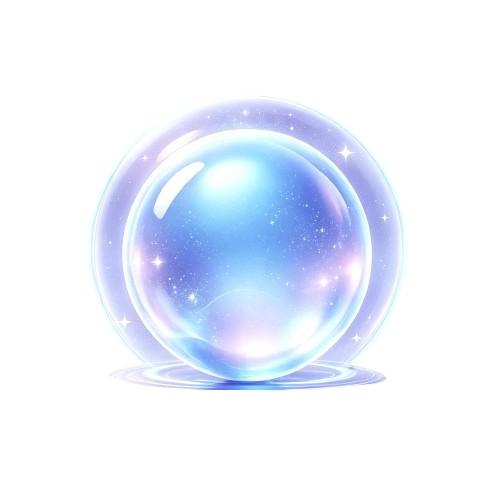
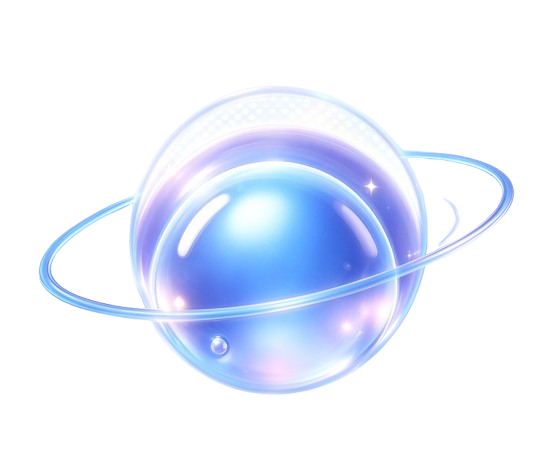
星球修改

Changed region(s): [[0.06, 0.1842, 0.96, 0.8904]]

diff --git a/src/app/globals.css b/src/app/globals.css
@@ -560,60 +560,160 @@ body {
   animation-duration: 8s;
 }
 
-/* 能量球光环：前后两段半环制造“环绕穿过”的立体感，外环更淡、倾角错开，星点点缀 */
-/*.orb-halo {
-  --ring: #a89cff;
-}*/
+/* ===== 心境星球：分层动效 ===== */
+/* 球 = 静态 PNG（缓慢自转）+ 高光漂移层；环 = 代码画的 3D 圆环，绕固定斜轴匀速进动，
+   像旋转的硬币那样翻滚，环前后穿插由 preserve-3d 深度排序天然实现。参考视频周期 6.5~8.5s、三颗错相 */
 
-/*.orb-ring {
+.orb-halo {
+  --ring: #a89cff;
+}
+
+.orb-halo.orb3d {
+  isolation: auto;
+  transform: none;
+  transform-style: preserve-3d;
+  perspective: 480px;
+}
+
+/* 环面进动层 */
+.orb3d-precess {
+  position: absolute;
+  inset: 0;
+  transform-style: preserve-3d;
+  pointer-events: none;
+  animation: orb-tumble var(--tumble-dur, 7s) linear infinite;
+  animation-delay: var(--tumble-delay, 0s);
+}
+
+/* 每颗星球转轴与节奏错开 */
+.orb-liujin .orb3d-precess {
+  --tumble-axis-x: 1;
+  --tumble-axis-y: 0.85;
+  --tumble-axis-z: 0.4;
+  --tumble-dur: 6.8s;
+  --tumble-delay: -2.1s;
+}
+.orb-feiyan .orb3d-precess {
+  --tumble-axis-x: 0.9;
+  --tumble-axis-y: 1;
+  --tumble-axis-z: -0.45;
+  --tumble-dur: 7.6s;
+  --tumble-delay: -4.7s;
+}
+.orb-jingchuan .orb3d-precess {
+  --tumble-axis-x: 1;
+  --tumble-axis-y: 0.7;
+  --tumble-axis-z: 0.3;
+  --tumble-dur: 8.4s;
+  --tumble-delay: -6.2s;
+}
+
+@keyframes orb-tumble {
+  from {
+    transform: rotate3d(
+      var(--tumble-axis-x, 1),
+      var(--tumble-axis-y, 1),
+      var(--tumble-axis-z, 0.4),
+      0deg
+    );
+  }
+  to {
+    transform: rotate3d(
+      var(--tumble-axis-x, 1),
+      var(--tumble-axis-y, 1),
+      var(--tumble-axis-z, 0.4),
+      360deg
+    );
+  }
+}
+
+.orb3d-ring {
   position: absolute;
   left: 50%;
   top: 50%;
-  width: 130%;
-  height: 40%;
   translate: -50% -50%;
-!*  rotate: -18deg;*!
-  border: 2px solid color-mix(in srgb, var(--ring) 68%, transparent);
   border-radius: 50%;
+  border: 2px solid color-mix(in srgb, var(--ring) 72%, transparent);
   box-shadow:
-    0 0 12px color-mix(in srgb, var(--ring) 45%, transparent),
-    inset 0 0 12px color-mix(in srgb, var(--ring) 28%, transparent);
-!*  animation: orb-ring-pulse 4.5s ease-in-out infinite;*!
+    0 0 10px color-mix(in srgb, var(--ring) 42%, transparent),
+    inset 0 0 10px color-mix(in srgb, var(--ring) 28%, transparent);
   pointer-events: none;
-}*/
+}
 
-/* 上半段，藏在球后 */
-/*.orb-ring-back {
-  z-index: 0;
-  clip-path: inset(0 0 50% 0);
-}*/
+/* 内环：贴近球体，亮 */
+.orb3d-ring-a {
+  width: 152%;
+  height: 152%;
+}
 
-/* 下半段，压在球前 */
-/*.orb-ring-front {
-  z-index: 2;
-  clip-path: inset(50% 0 0 0);
-}*/
-
-/* 更淡的外环，整环压在球前 */
-/*.orb-ring-outer {
-  width: 148%;
-  height: 30%;
-  rotate: -32deg;
+/* 外环：更大更淡，自身带一点相对倾角，形成双层错落 */
+.orb3d-ring-b {
+  width: 176%;
+  height: 176%;
   border-width: 1px;
-  border-color: color-mix(in srgb, var(--ring) 32%, transparent);
-  box-shadow: 0 0 8px color-mix(in srgb, var(--ring) 20%, transparent);
+  opacity: 0.7;
+  rotate: 1 0.5 0.3 20deg;
+}
+
+/* 虚线细环：仅 wrapper 带 orb3d-precess-dashed 时显示 */
+.orb3d-ring-c {
+  display: none;
+  width: 164%;
+  height: 164%;
+  border: 1.5px dashed color-mix(in srgb, var(--ring) 55%, transparent);
+  box-shadow: none;
+  rotate: 0.3 1 0.15 -26deg;
+}
+.orb3d-precess-dashed .orb3d-ring-c {
+  display: block;
+}
+
+/* 球体所在平面组：贴在 z=0，与环做深度排序（环近端扫到球前、远端藏到球后） */
+.orb3d-body {
+  position: absolute;
+  inset: 0;
+  display: flex;
+  align-items: center;
+  justify-content: center;
+  transform: translateZ(0);
+}
+
+/* 高光漂移：mask 裁成球的轮廓，亮斑在球面上缓慢游移，玻璃质感“活”起来 */
+@property --sheen-x {
+  syntax: "<percentage>";
+  initial-value: 30%;
+  inherits: false;
+}
+@property --sheen-y {
+  syntax: "<percentage>";
+  initial-value: 24%;
+  inherits: false;
+}
+
+.orb-sheen {
+  position: absolute;
+  inset: 0;
   z-index: 2;
-  animation-delay: 1.4s;
-}*/
+  pointer-events: none;
+  background: radial-gradient(
+    46% 36% at var(--sheen-x) var(--sheen-y),
+    rgba(255, 255, 255, 0.5),
+    rgba(255, 255, 255, 0.14) 52%,
+    transparent 72%
+  );
+  mix-blend-mode: screen;
+  animation: orb-sheen-drift var(--sheen-dur, 9.5s) ease-in-out infinite alternate;
+}
 
-
-
-/* 舞台：设定倾斜角 */
-.orb-halo {
-  --ring: #a89cff;
-  position: relative;
-  /* 将整个舞台倾斜，制造环绕倾角 */
-  transform: rotate(-15deg);
+@keyframes orb-sheen-drift {
+  from {
+    --sheen-x: 26%;
+    --sheen-y: 22%;
+  }
+  to {
+    --sheen-x: 68%;
+    --sheen-y: 58%;
+  }
 }
 
 /* 1. 球体：24s自转 */
@@ -626,82 +726,6 @@ body {
 }
 .mood-figure-on .energy-orb {
   animation-duration: 12s;
-}
-
-/* 2. 光环公转：18s，绕着球体转 */
-@keyframes ring-spin {
-  from { transform: rotateZ(0deg); }
-  to { transform: rotateZ(360deg); }
-}
-
-/* 光环基础形状：一个压扁的椭圆，模拟 3D 透视 */
-.orb-ring {
-  position: absolute;
-  left: 50%;
-  top: 50%;
-  width: 140%;
-  height: 45%; /* 压扁，形成透视感 */
-  margin-left: -70%;
-  margin-top: -22.5%;
-  border-radius: 50%;
-  pointer-events: none;
-  /* 管状厚度：用 box-shadow 模拟 */
-  border: 2px solid color-mix(in srgb, var(--ring) 70%, transparent);
-  box-shadow:
-          0 0 12px color-mix(in srgb, var(--ring) 40%, transparent),
-          inset 0 0 10px color-mix(in srgb, var(--ring) 30%, transparent);
-
-  /* 核心：绕着中心点公转 */
-  animation: ring-spin 18s linear infinite;
-  transform-origin: center center;
-}
-
-/* 用伪元素做“远侧淡、近侧亮”的虚实效果 */
-.orb-ring::before {
-  content: "";
-  position: absolute;
-  inset: -2px;
-  border-radius: 50%;
-  /* 关键：上半部分（远侧）透明，下半部分（近侧）高亮 */
-  background: linear-gradient(180deg,
-  transparent 20%,
-  color-mix(in srgb, var(--ring) 10%, transparent) 50%,
-  color-mix(in srgb, var(--ring) 80%, transparent) 100%);
-  mix-blend-mode: screen;
-  pointer-events: none;
-}
-
-/* 处理前后层级，防止穿模 */
-.orb-ring-back {
-  z-index: 0;
-}
-.orb-ring-front {
-  z-index: 2;
-}
-/* 外环稍微放大，转速错开 */
-.orb-ring-outer {
-  width: 155%;
-  height: 50%;
-  margin-left: -77.5%;
-  margin-top: -25%;
-  border-width: 1px;
-  opacity: 0.5;
-  animation: ring-spin 26s linear infinite reverse;
-  z-index: 2;
-}
-
-
-
-
-
-@keyframes orb-ring-pulse {
-  0%,
-  100% {
-    opacity: 0.62;
-  }
-  50% {
-    opacity: 1;
-  }
 }
 
 .orb-spark {
@@ -916,7 +940,8 @@ body {
   .planet-star,
   .cover-nebula,
   .energy-orb,
-  .orb-ring,
+  .orb3d-precess,
+  .orb-sheen,
   .orb-spark,
   .orbit-shimmer,
   .orbit-rotor,

diff --git a/src/components/doll/DollSelectScreen.tsx b/src/components/doll/DollSelectScreen.tsx
@@ -29,18 +29,39 @@ export function DollSelectScreen({
                     }`}
                 >
                   <span
-//                     className="orb-halo relative isolate block h-28 w-28"
-                    className={`orb-halo orb-${doll.id} relative isolate block h-28 w-28`}
+                    className={`orb-halo orb3d orb-${doll.id} relative block h-28 w-28`}
                     style={{ "--ring": doll.ring } as CSSProperties}
                   >
-                    <span className="orb-ring orb-ring-back" aria-hidden />
-                    <span className="orb-ring orb-ring-outer" aria-hidden />
-                    <img
-                      src={doll.src}
-                      alt=""
-                      className="energy-orb absolute inset-0 z-[1] h-full w-full object-contain drop-shadow-[0_10px_18px_rgba(0,0,0,0.35)]"
-                    />
-                    <span className="orb-ring orb-ring-front" aria-hidden />
+                    {/* 环：代码画的 3D 圆环，环面绕斜轴匀速进动，前后穿插靠 preserve-3d */}
+                    <span
+                      className={`orb3d-precess${doll.id === "feiyan" ? " orb3d-precess-dashed" : ""}`}
+                      aria-hidden
+                    >
+                      <span className="orb3d-ring orb3d-ring-a" aria-hidden />
+                      <span className="orb3d-ring orb3d-ring-b" aria-hidden />
+                      <span className="orb3d-ring orb3d-ring-c" aria-hidden />
+                    </span>
+                    {/* 球：静态 PNG + 高光漂移（mask 裁出球轮廓） */}
+                    <span className="orb3d-body">
+                      <img
+                        src={doll.src}
+                        alt=""
+                        className="energy-orb h-full w-full object-contain drop-shadow-[0_10px_18px_rgba(0,0,0,0.35)]"
+                      />
+                      <span
+                        className="orb-sheen"
+                        aria-hidden
+                        style={
+                          {
+                            maskImage: `url(${doll.src})`,
+                            WebkitMaskImage: `url(${doll.src})`,
+                            maskSize: "contain",
+                            maskPosition: "center",
+                            maskRepeat: "no-repeat",
+                          } as CSSProperties
+                        }
+                      />
+                    </span>
                     <span className="orb-spark orb-spark-1" aria-hidden />
                     <span className="orb-spark orb-spark-2" aria-hidden />
                   </span>

diff --git a/src/components/planet/PlanetView.tsx b/src/components/planet/PlanetView.tsx
@@ -88,17 +88,34 @@ export function PlanetView({
         </svg>
         {figureSrc && (
           <span
-            className="orb-halo pointer-events-none absolute bottom-[6%] left-1/2 z-10 isolate block h-[46%] -translate-x-1/2"
+            className="orb-halo orb3d pointer-events-none absolute bottom-[6%] left-1/2 z-10 block h-[46%] aspect-[8/7] -translate-x-1/2"
             style={figureRing ? ({ "--ring": figureRing } as CSSProperties) : undefined}
           >
-            <span className="orb-ring orb-ring-back" aria-hidden />
-            <span className="orb-ring orb-ring-outer" aria-hidden />
-            <img
-              src={figureSrc}
-              alt={figureLabel ?? ""}
-              className="energy-orb relative z-[1] block h-full w-auto object-contain drop-shadow-[0_10px_20px_rgba(0,0,0,0.45)]"
-            />
-            <span className="orb-ring orb-ring-front" aria-hidden />
+            <span className="orb3d-precess orb3d-precess-dashed" aria-hidden>
+              <span className="orb3d-ring orb3d-ring-a" aria-hidden />
+              <span className="orb3d-ring orb3d-ring-b" aria-hidden />
+              <span className="orb3d-ring orb3d-ring-c" aria-hidden />
+            </span>
+            <span className="orb3d-body">
+              <img
+                src={figureSrc}
+                alt={figureLabel ?? ""}
+                className="energy-orb h-full w-auto object-contain drop-shadow-[0_10px_20px_rgba(0,0,0,0.45)]"
+              />
+              <span
+                className="orb-sheen"
+                aria-hidden
+                style={
+                  {
+                    maskImage: `url(${figureSrc})`,
+                    WebkitMaskImage: `url(${figureSrc})`,
+                    maskSize: "contain",
+                    maskPosition: "center bottom",
+                    maskRepeat: "no-repeat",
+                  } as CSSProperties
+                }
+              />
+            </span>
             <span className="orb-spark orb-spark-1" aria-hidden />
             <span className="orb-spark orb-spark-2" aria-hidden />
           </span>
